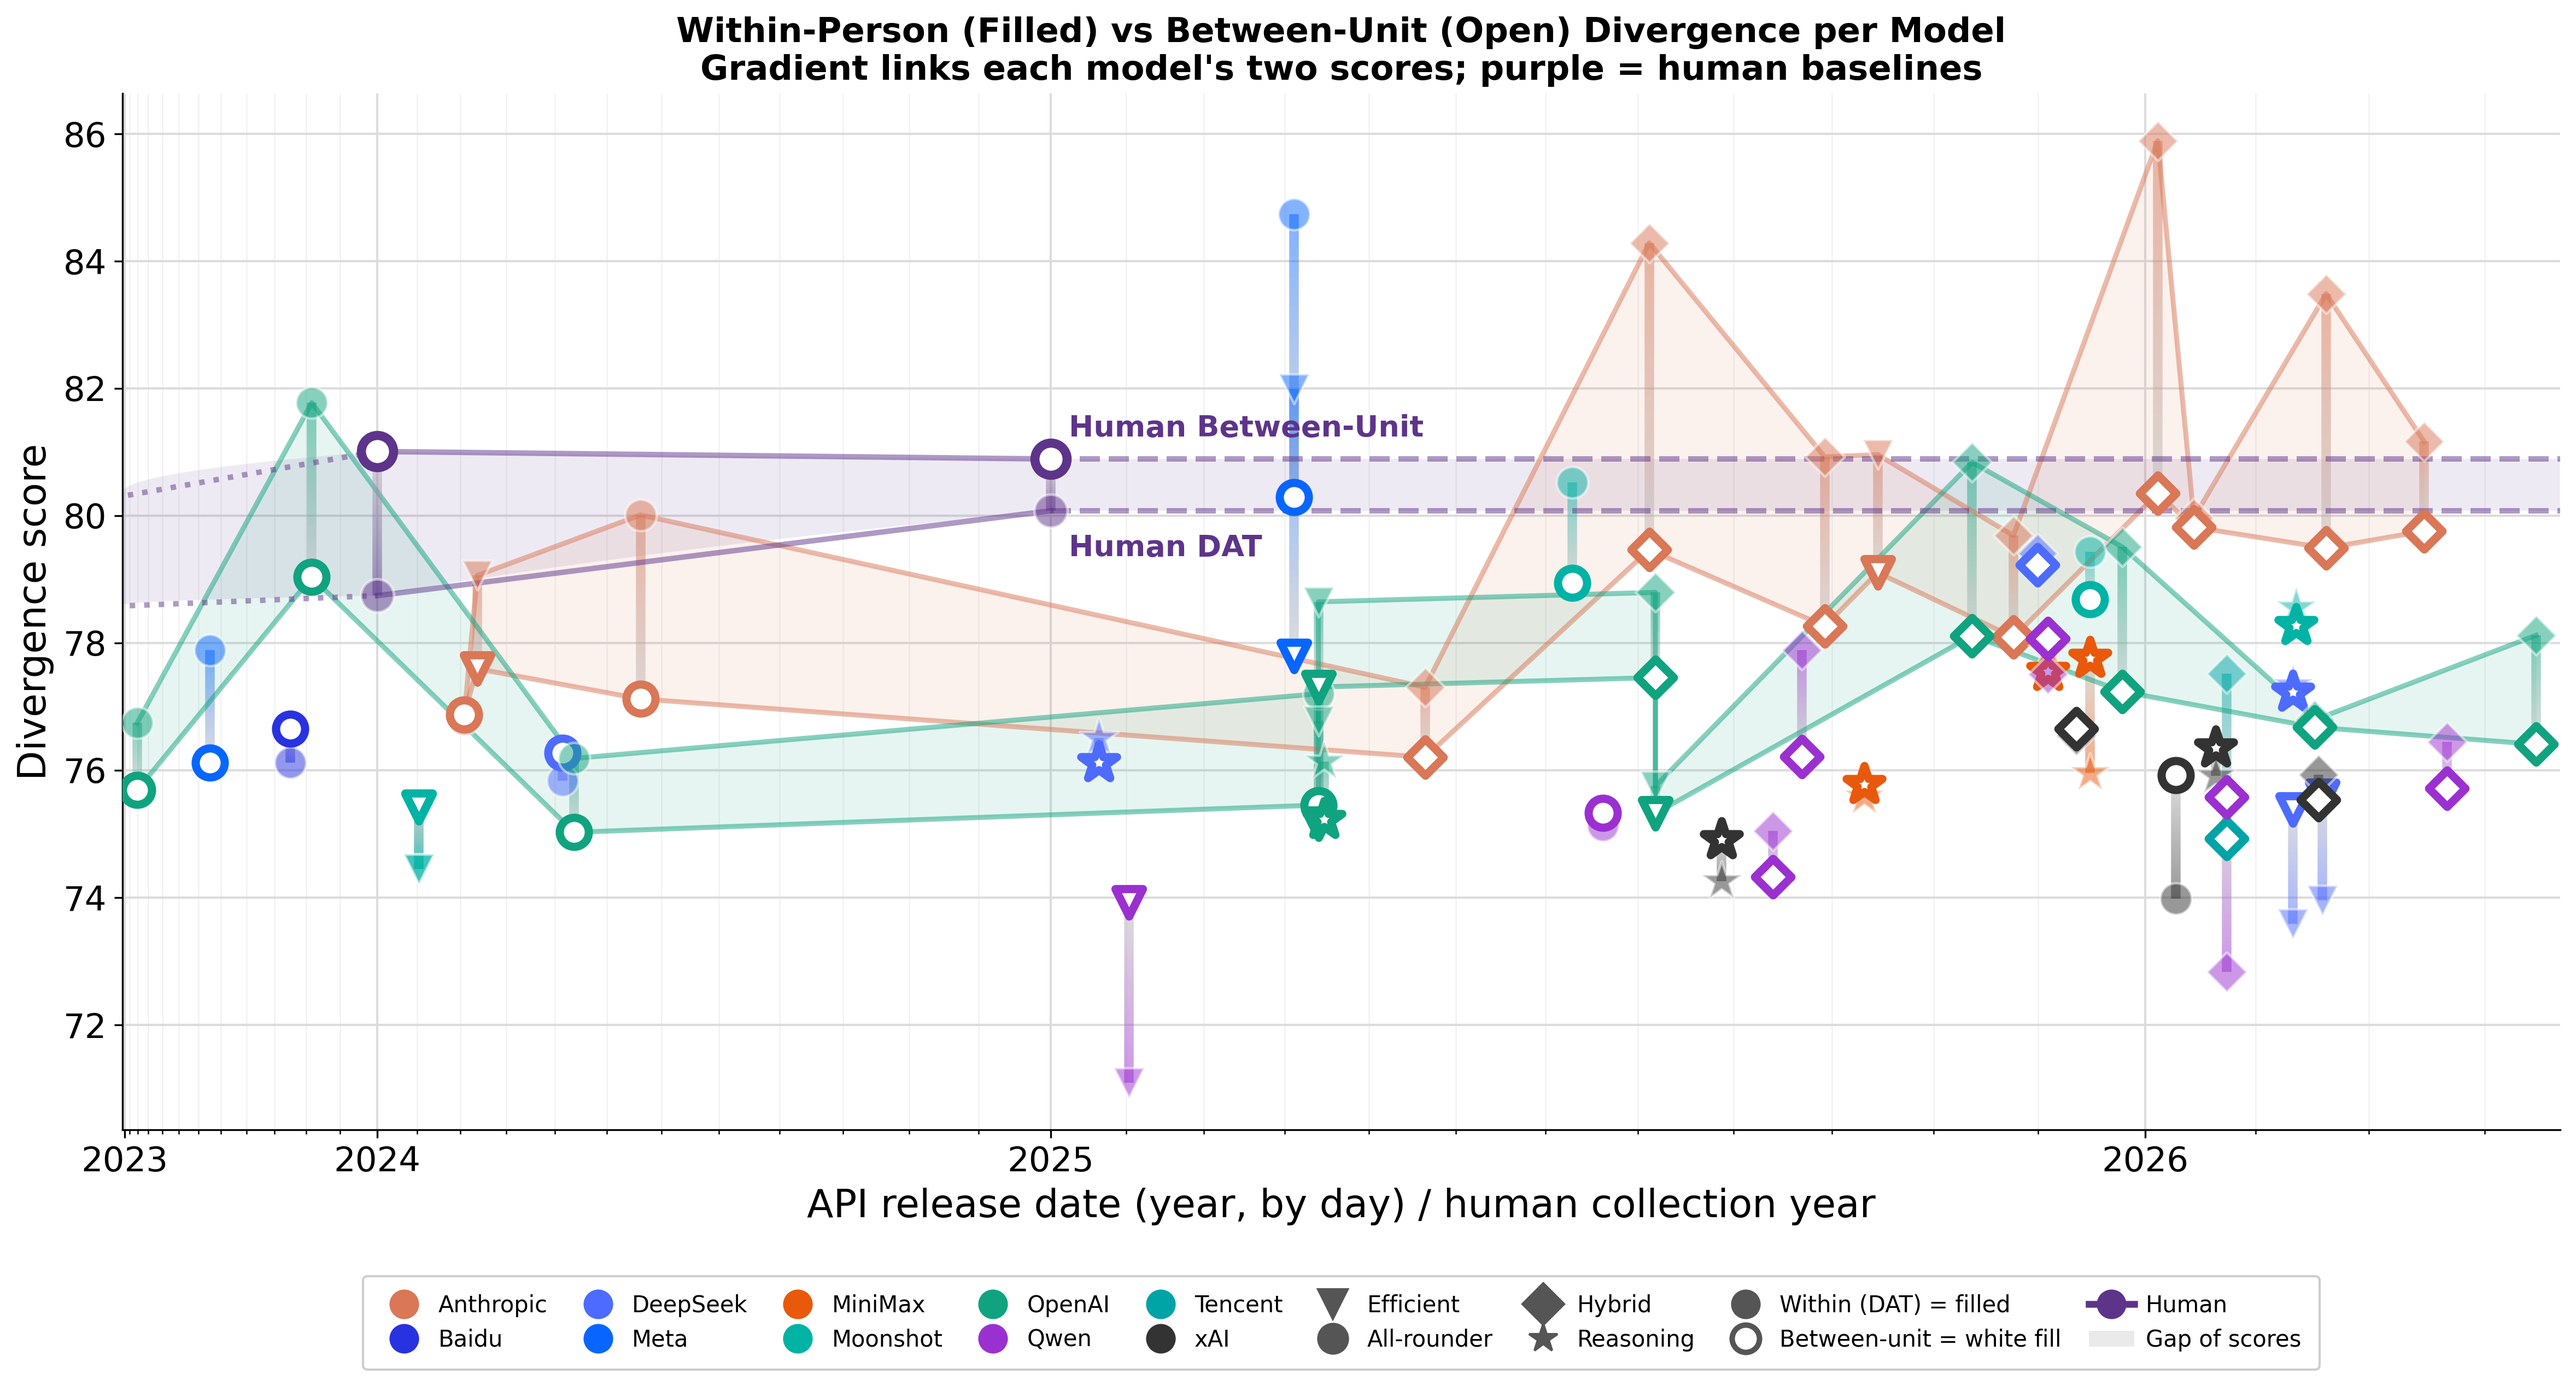
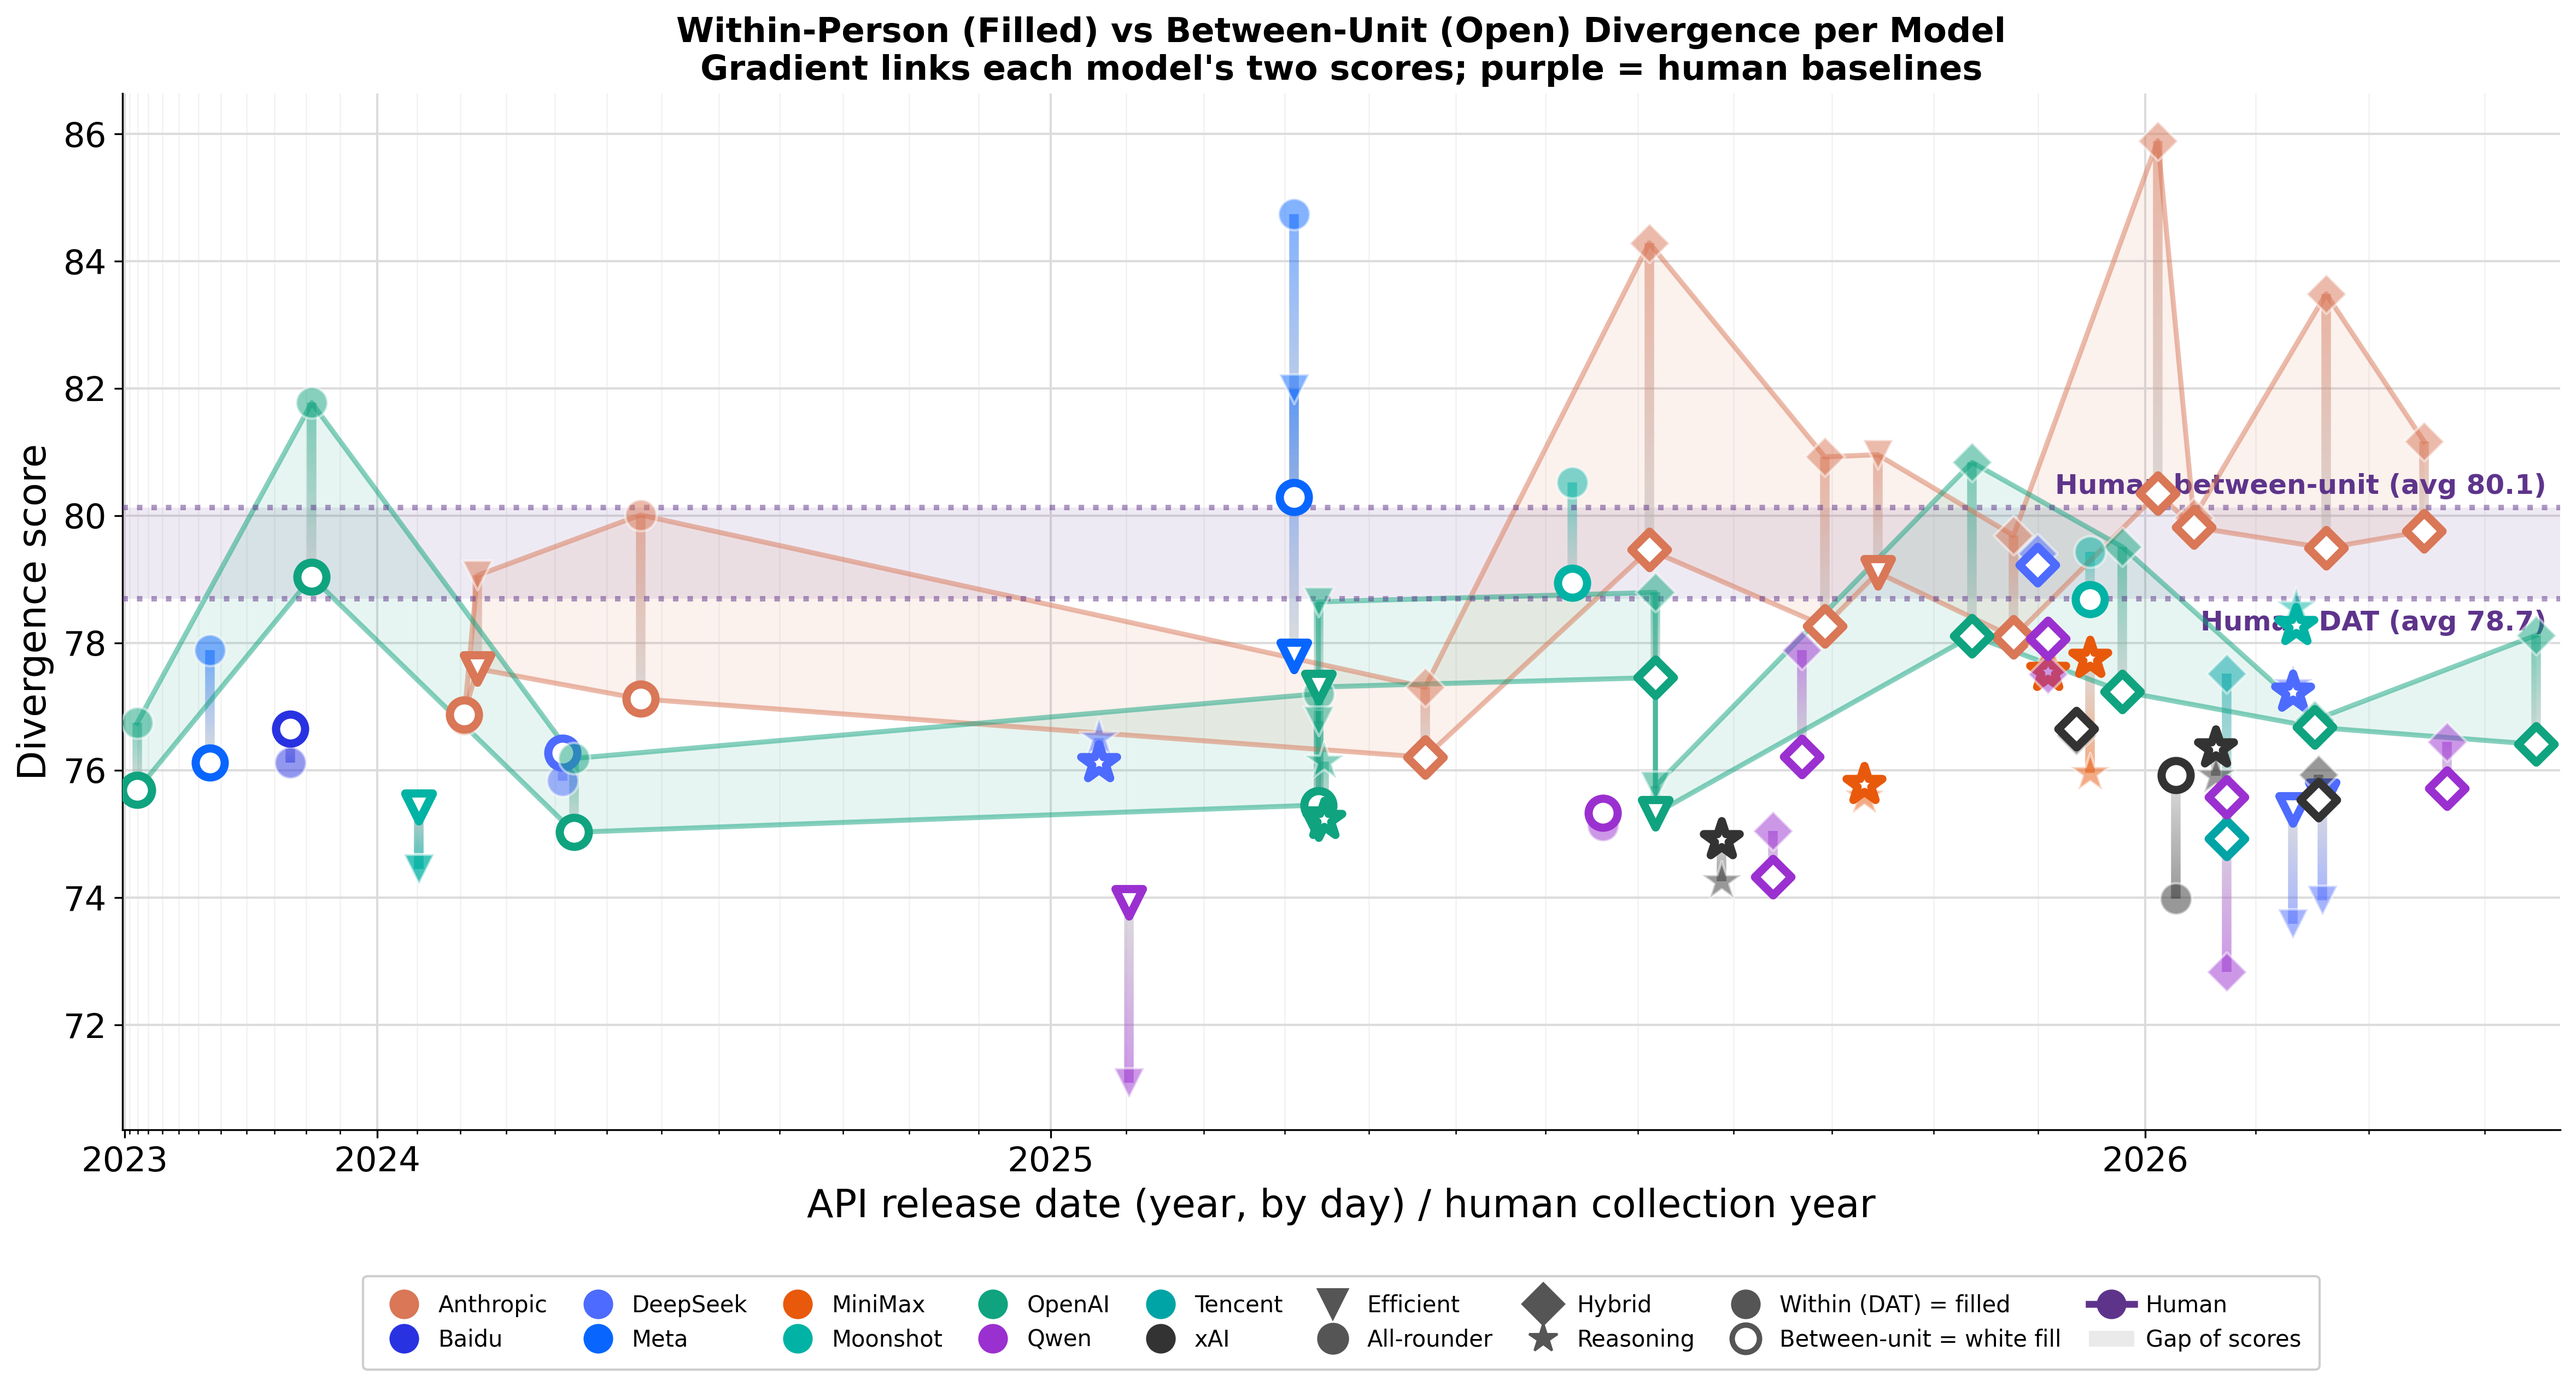
Overlay: human baselines as two flat dotted grand-mean lines (DAT 78.7, between-unit 80.1) with shaded band; drop per-year zigzag

diff --git a/analysis/within_vs_between_overlay_plot.py b/analysis/within_vs_between_overlay_plot.py
@@ -51,51 +51,31 @@ for m in models:
     x=dat[m][0]; p=dat[m][4]; intel=dat[m][5]; col=PROV_COLOR.get(p,'#888')
     ax.scatter(tx(x),dat[m][7],marker=MARK[intel],s=SIZE[intel],color=col,alpha=0.50,zorder=6,edgecolors='white',linewidths=1.1)
     ax.scatter(tx(x),btw[m][7],marker=MARK[intel],s=SIZE[intel]*0.855,facecolors='white',edgecolors=col,linewidths=3.6,alpha=1.0,zorder=6)
-# human baselines: DAT filled dashed, between open dashed
-def human_line(hy,style,fillopen,line_alpha):
-    hx=sorted(hy)
-    ax.plot([tx(hx[0]),tx(hx[1])],[hy[hx[0]],hy[hx[1]]],':',color=HUMAN_PURPLE,lw=2.4,zorder=5,alpha=line_alpha)
-    ax.plot([tx(2024),tx(2025)],[hy[2024],hy[2025]],'-',color=HUMAN_PURPLE,lw=2.4,zorder=5,alpha=line_alpha)
-    ax.plot([tx(2025),tx(xmax)],[hy[2025],hy[2025]],'--',color=HUMAN_PURPLE,lw=2.4,zorder=5,alpha=line_alpha)
-    for y in hx:
-        if fillopen=='fill': ax.scatter(tx(y),hy[y],marker='o',s=210,color=HUMAN_PURPLE,alpha=0.50,zorder=7,edgecolors='white',linewidths=1.2)
-        else: ax.scatter(tx(y),hy[y],marker='o',s=199.5,facecolors='white',edgecolors=HUMAN_PURPLE,linewidths=4,alpha=1.0,zorder=7)
-human_line(dat_hy,'-','fill',0.50)
-human_line(btw_hy,'--','open',0.50)
-# --- shade between the two HUMAN baselines (10%, purple) ---
-def _human_y_at(hy, xv):
-    hx=sorted(hy)
-    if xv<=hx[0]: return hy[hx[0]]
-    if xv<=hx[1]: 
-        f=(xv-hx[0])/(hx[1]-hx[0]); return hy[hx[0]]+f*(hy[hx[1]]-hy[hx[0]])
-    if xv<=2025:
-        f=(xv-2024)/(2025-2024); return hy[2024]+f*(hy[2025]-hy[2024])
-    return hy[2025]
-import numpy as _np
-_hxs=_np.linspace(min(sorted(dat_hy)), xmax, 200)
-_hd=[_human_y_at(dat_hy,x) for x in _hxs]
-_hb=[_human_y_at(btw_hy,x) for x in _hxs]
-ax.fill_between([tx(x) for x in _hxs],_hd,_hb,color=HUMAN_PURPLE,alpha=0.10,zorder=2,linewidth=0)
+# human baselines: two FLAT dotted horizontal lines at the pooled grand-mean scores
+import json as _json
+_havg=_json.load(open("human_avg.json"))
+HUMAN_DAT_AVG=_havg["human_dat_mean"]        # pooled mean human DAT
+HUMAN_BTW_AVG=_havg["human_between_mean"]     # pooled mean human between-unit
+_xL,_xR=tx(xmin),tx(xmax)
+ax.plot([_xL,_xR],[HUMAN_DAT_AVG,HUMAN_DAT_AVG],':',color=HUMAN_PURPLE,lw=2.4,alpha=0.50,zorder=5)
+ax.plot([_xL,_xR],[HUMAN_BTW_AVG,HUMAN_BTW_AVG],':',color=HUMAN_PURPLE,lw=2.4,alpha=0.50,zorder=5)
+ax.fill_between([_xL,_xR],[HUMAN_DAT_AVG]*2,[HUMAN_BTW_AVG]*2,color=HUMAN_PURPLE,alpha=0.10,zorder=2,linewidth=0)
+ax.annotate(f"Human DAT (avg {HUMAN_DAT_AVG:.1f})",(_xR,HUMAN_DAT_AVG),textcoords="offset points",xytext=(-6,-14),ha='right',fontsize=12,weight='bold',color=HUMAN_PURPLE)
+ax.annotate(f"Human between-unit (avg {HUMAN_BTW_AVG:.1f})",(_xR,HUMAN_BTW_AVG),textcoords="offset points",xytext=(-6,6),ha='right',fontsize=12,weight='bold',color=HUMAN_PURPLE)
 # --- lineage horizontal connectors linking existing points (no new numbers) ---
 def _lineage_connectors(prefix, color, shade=True):
     ms=[m for m in dat if m.lower().startswith(prefix) and m in btw]
     ms.sort(key=lambda m: dat[m][0])
     if len(ms)<2: return
     _xs=[tx(dat[m][0]) for m in ms]
-    _yd=[dat[m][7] for m in ms]     # DAT points
-    _yb=[btw[m][7] for m in ms]     # between-unit points
-    ax.plot(_xs,_yd,'-',color=color,lw=2.2,alpha=0.50,zorder=4)   # DAT lineage
-    ax.plot(_xs,_yb,'-',color=color,lw=2.2,alpha=0.50,zorder=4)   # between lineage
+    _yd=[dat[m][7] for m in ms]
+    _yb=[btw[m][7] for m in ms]
+    ax.plot(_xs,_yd,'-',color=color,lw=2.2,alpha=0.50,zorder=4)
+    ax.plot(_xs,_yb,'-',color=color,lw=2.2,alpha=0.50,zorder=4)
     if shade:
-        ax.fill_between(_xs,_yd,_yb,color=color,alpha=0.10,zorder=2,linewidth=0)  # shade gap 10%
+        ax.fill_between(_xs,_yd,_yb,color=color,alpha=0.10,zorder=2,linewidth=0)
 _lineage_connectors("claude", PROV_COLOR['anthropic'], shade=True)
 _lineage_connectors("gpt",    PROV_COLOR['openai'], shade=True)
-# human connectors: same gradient pattern as models (faded at DAT end -> strong at between end)
-for _y in sorted(set(dat_hy)&set(btw_hy)):
-    _segs,_cols=grad_segments(tx(_y),dat_hy[_y],btw_hy[_y],HUMAN_PURPLE,GRAD_TO)
-    ax.add_collection(LineCollection(_segs,colors=_cols,linewidths=4.2,zorder=4))
-ax.annotate("Human DAT",(tx(2025),dat_hy[2025]),textcoords="offset points",xytext=(8,-20),fontsize=13,weight='bold',color=HUMAN_PURPLE)
-ax.annotate("Human Between-Unit",(tx(2025),btw_hy[2025]),textcoords="offset points",xytext=(8,10),fontsize=13,weight='bold',color=HUMAN_PURPLE)
 
 ax.set_xlim(tx(xmin),tx(xmax))
 _yr=[2023,2024,2025,2026]
